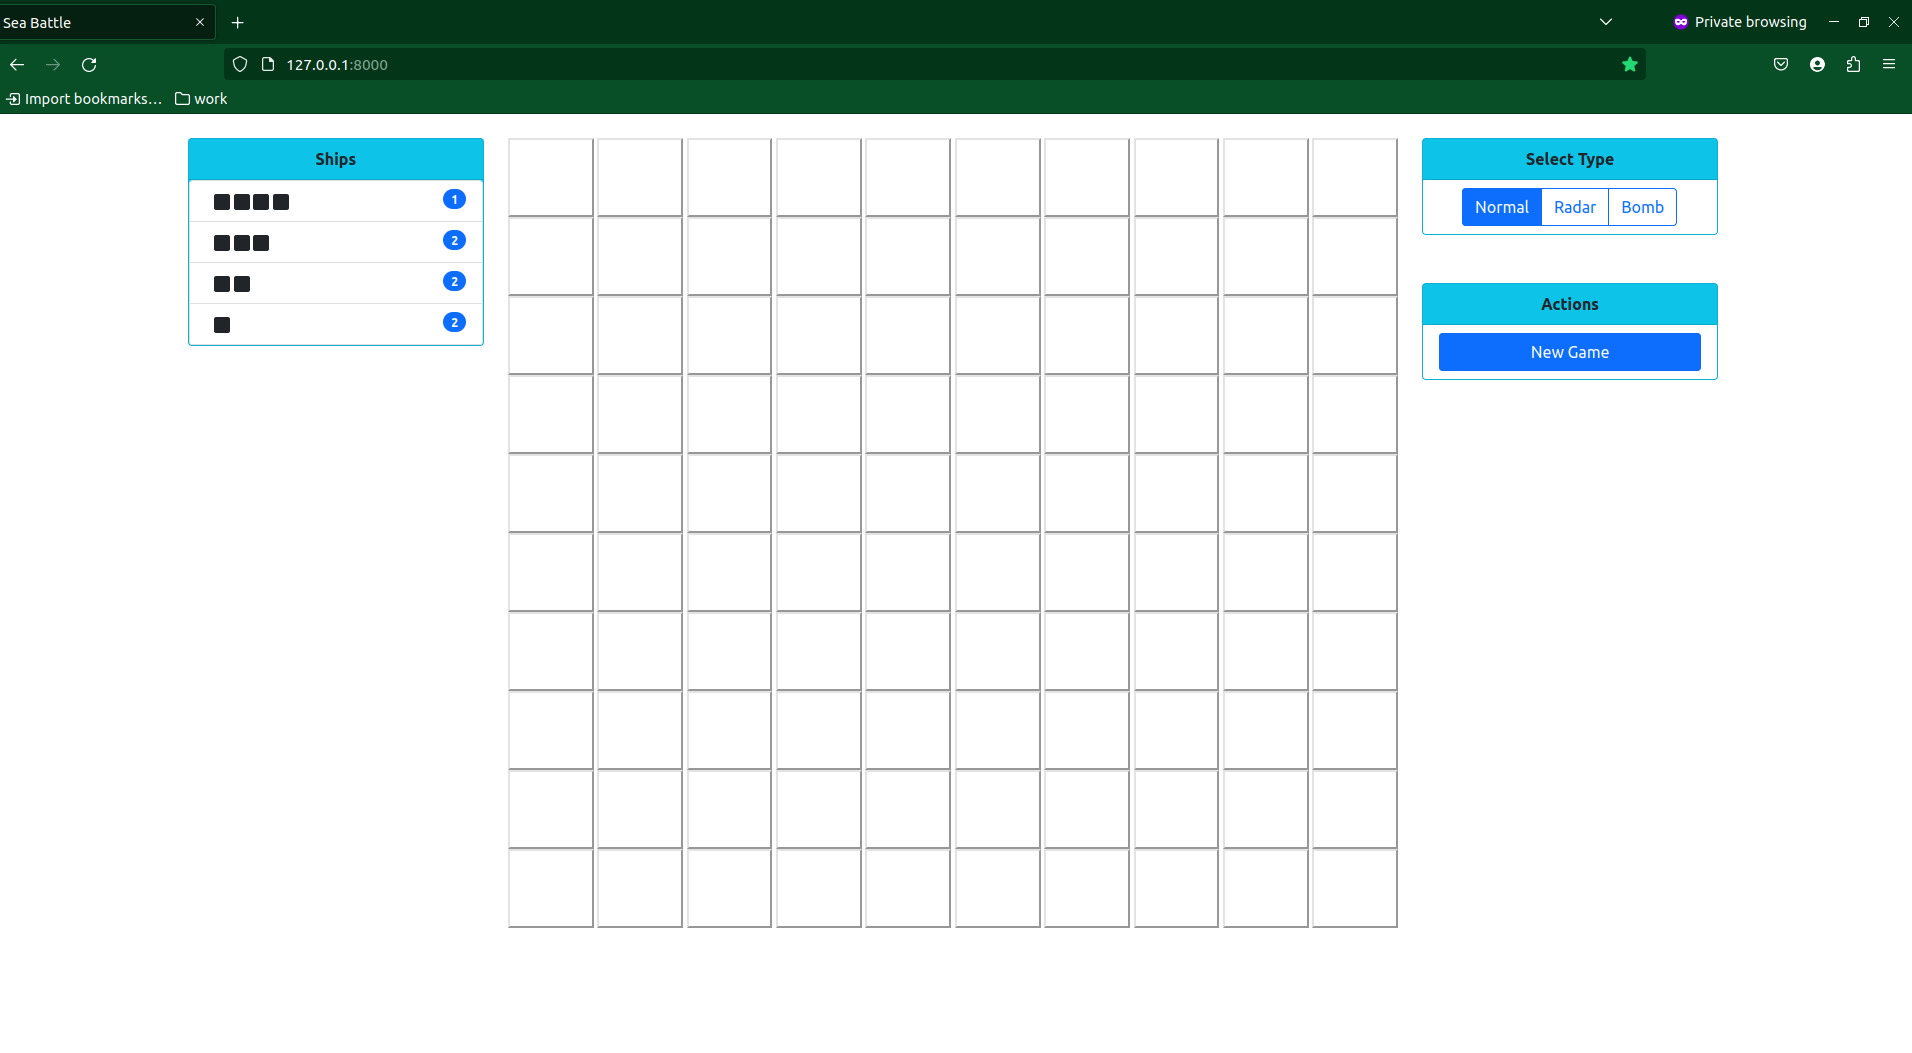
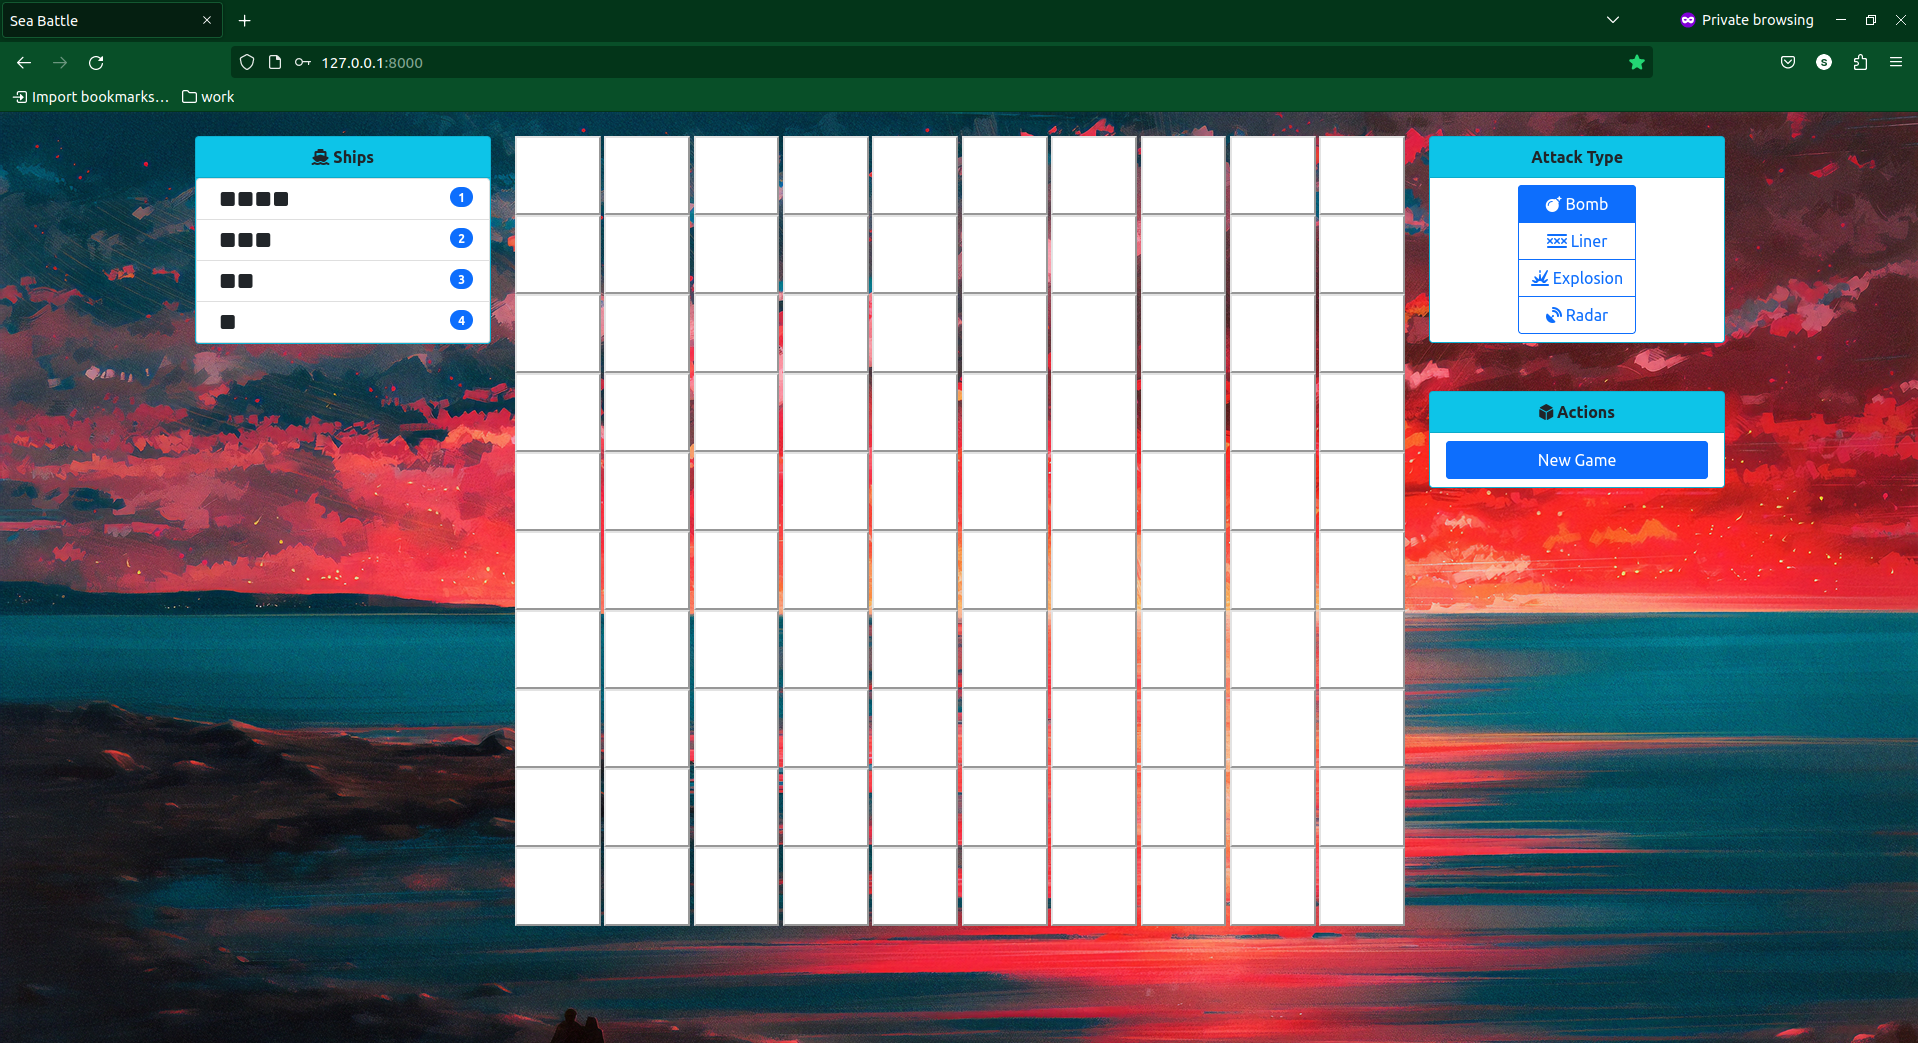
update for new ability

diff --git a/README.md b/README.md
@@ -5,6 +5,9 @@ sea battle game by django
 ![1](.github/images/1.png)
 ![2](.github/images/2.png)
 ![3](.github/images/3.png)
+![4](.github/images/4.png)
+![5](.github/images/5.png)
+![6](.github/images/6.png)
 
 ### Usage
 I am using python "3.10.6" version 
